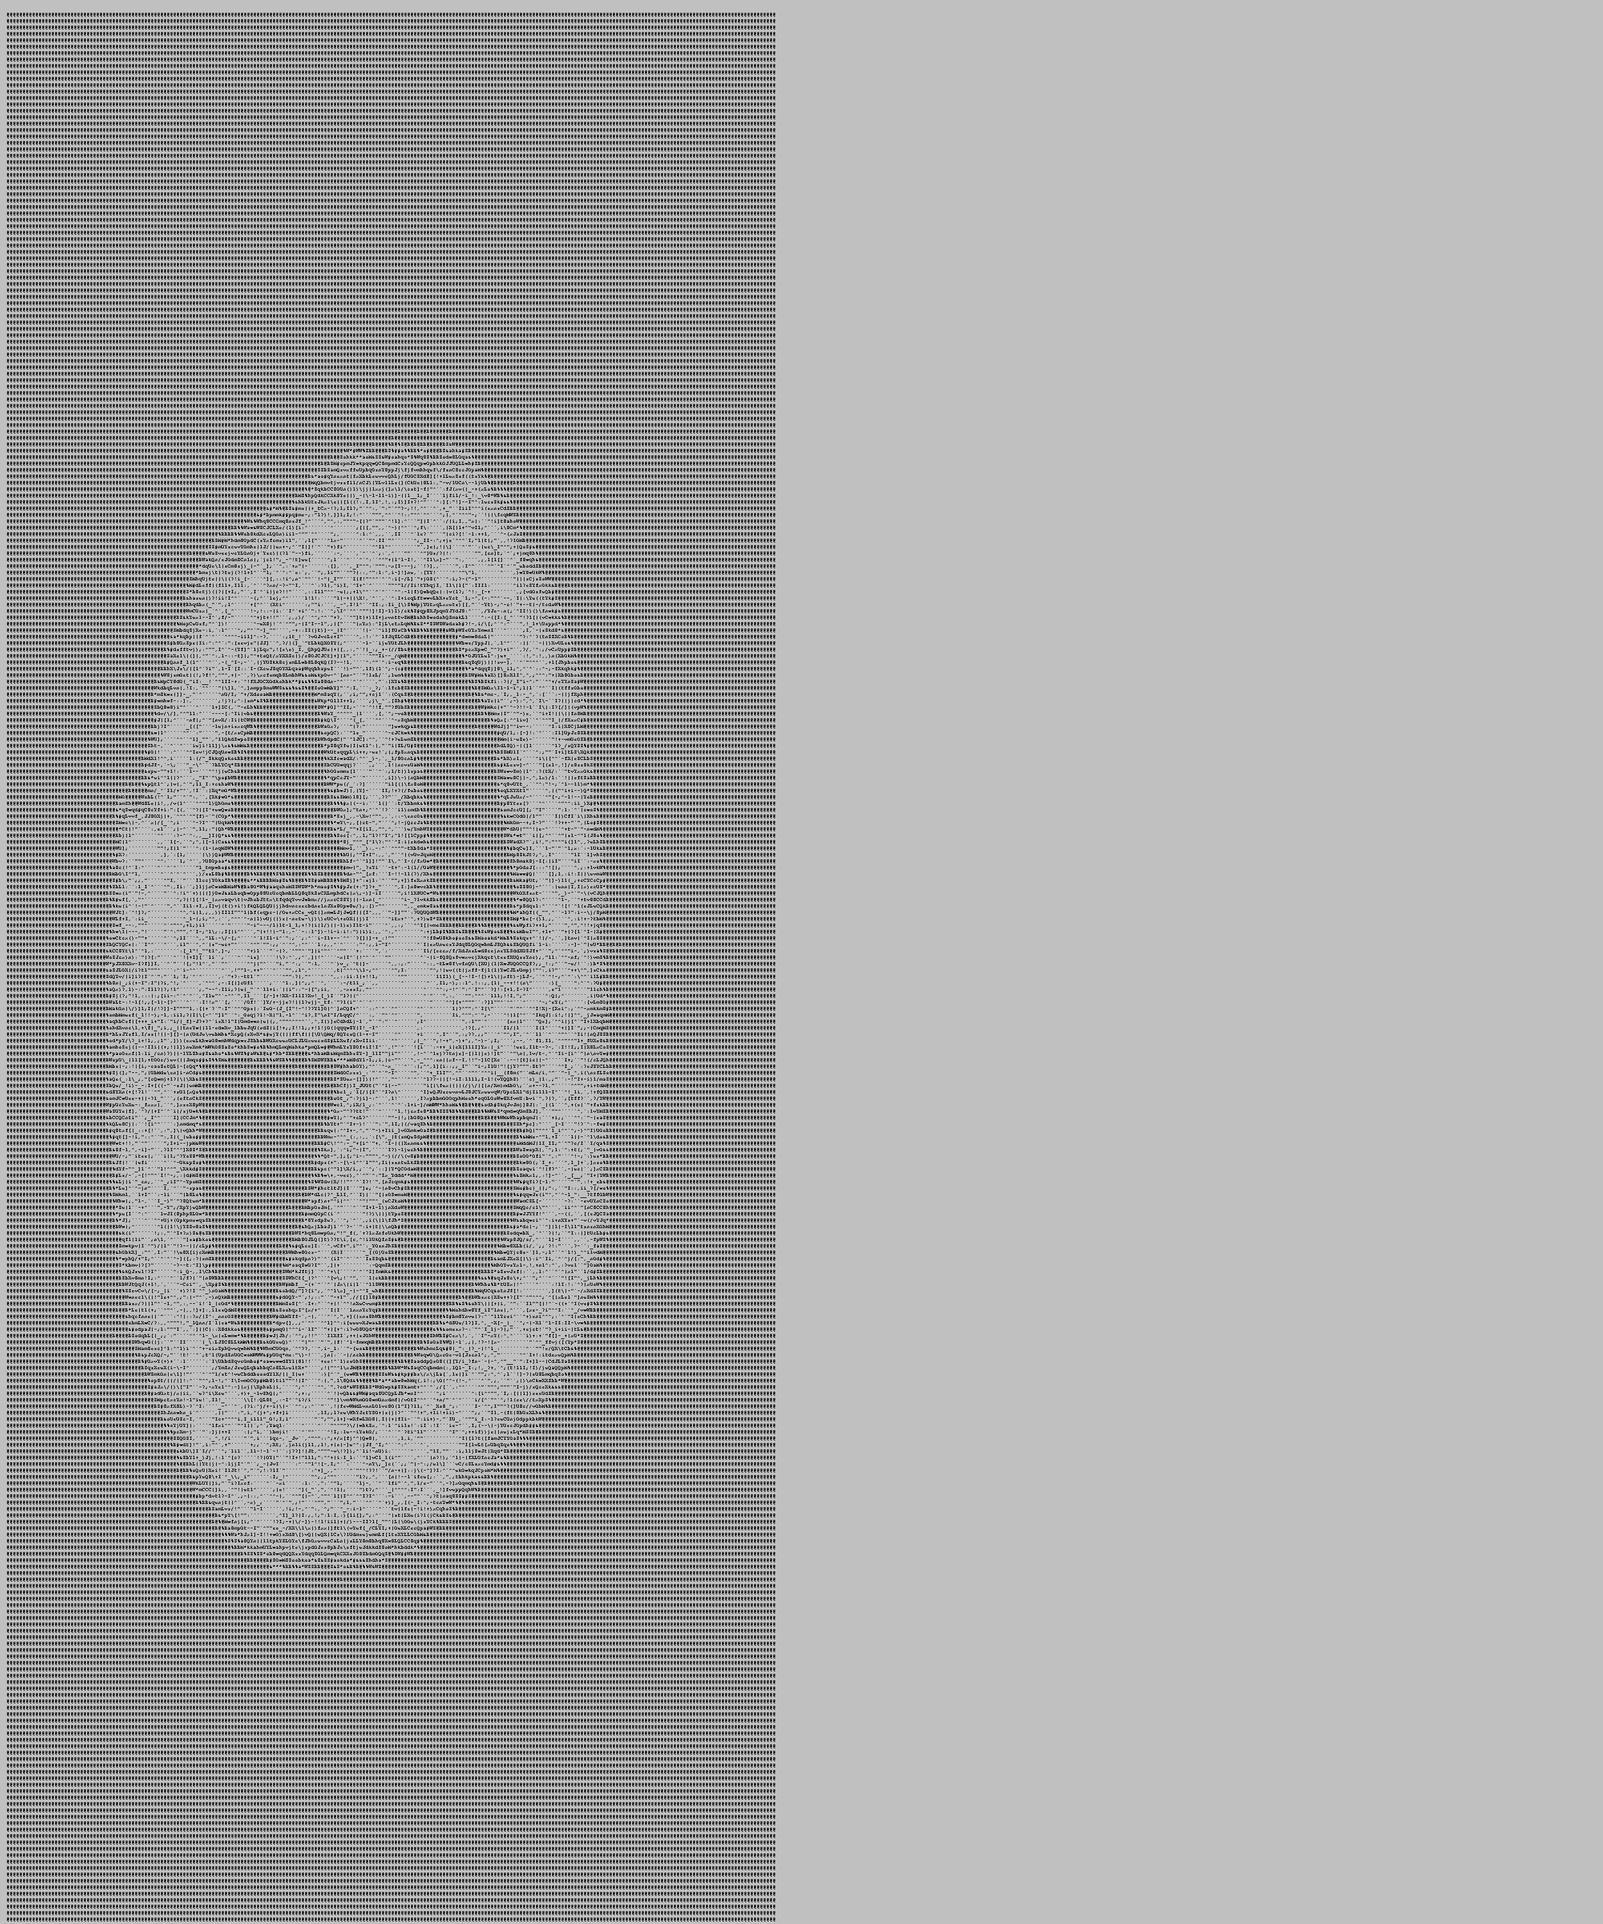
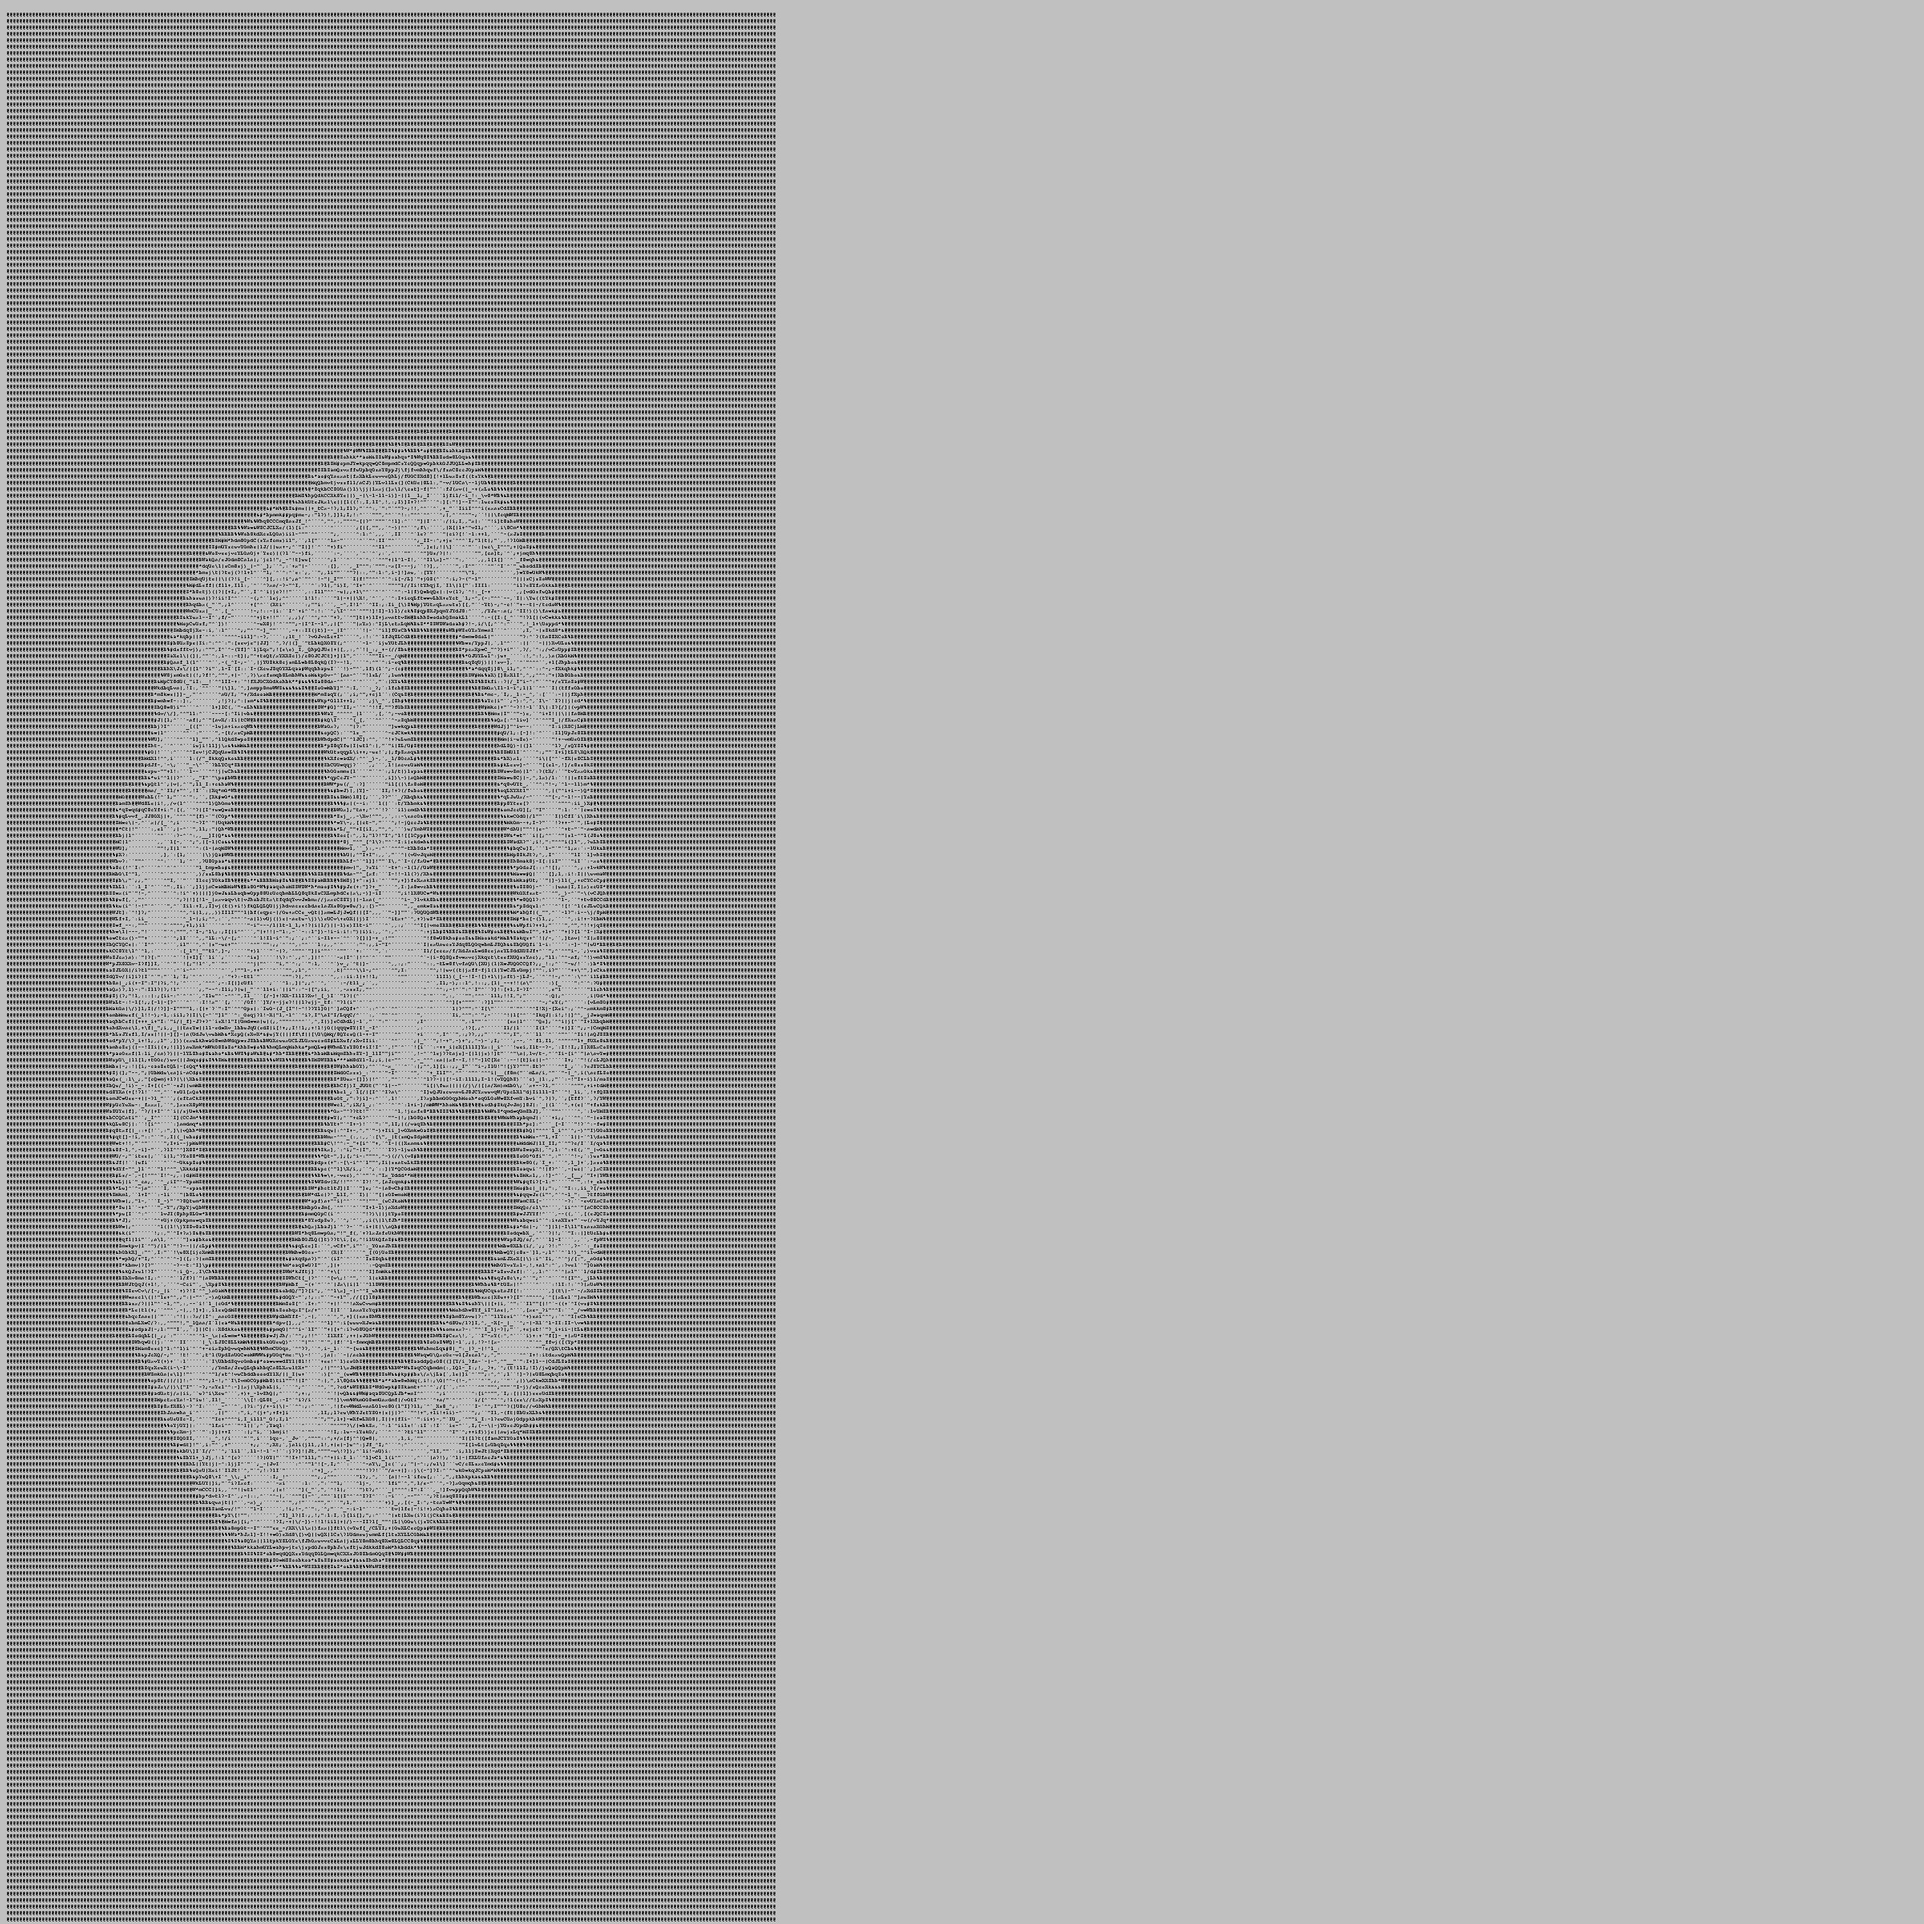
no changes

Changed region(s): [[0.0, 0.0, 0.4992, 1.0]]

diff --git a/src/com/company/Main.java b/src/com/company/Main.java
@@ -48,7 +48,7 @@ public class Main {
         try
         {
             //image file path
-            File input_file = new File("D:\\Ishita\\Github\\Ascii Art\\out\\res\\images\\ascii-pineapple.jpg");
+            File input_file = new File("D:\\Ishita\\Github\\Ascii Art\\out\\res\\images\\peace.jpg");
 
             /* create an object of BufferedImage type and
                pass as parameter the width, height and image int type.TYPE_INT_ARGB
@@ -105,7 +105,7 @@ public class Main {
         // WRITE IMAGE
         try {
             // Output file path
-            File output_file = new File("D:\\Ishita\\Github\\Ascii Art\\out\\res\\images\\out.jpg");
+            File output_file = new File("D:\\Ishita\\Github\\Ascii Art\\out\\res\\images\\out-peace.jpg");
 
             // Writing to file taking type and path as
 
